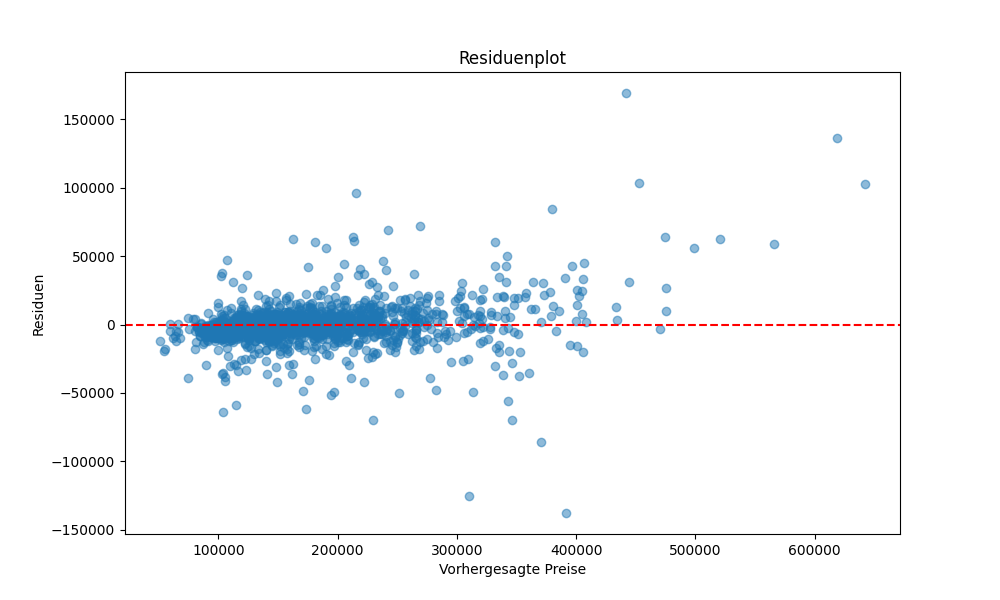
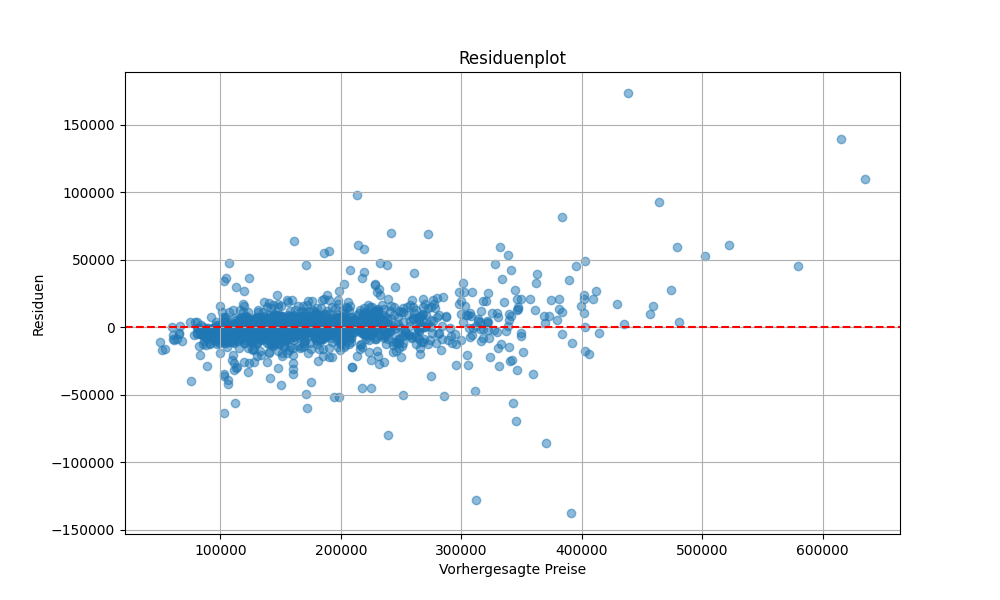
Automatisierung der ML Pipeline

diff --git a/scripts/evaluate_model.py b/scripts/evaluate_model.py
@@ -7,35 +7,48 @@ import logging
 
 logging.basicConfig(level=logging.INFO)
 
-def evaluate_model(data_path, model_path):
+def evaluate_model(data_path, model_path, feature_path, results_dir="results"):
     """
     Bewertet das trainierte Modell und visualisiert die Ergebnisse.
     """
     try:
-        data = pd.read_csv(data_path, compression='zip')
-        X = data.drop(columns=["SalePrice"])
+        # Erstelle das Verzeichnis für Ergebnisse, falls nicht vorhanden
+        os.makedirs(results_dir, exist_ok=True)
+
+        # Lade die CSV-Datei
+        data = pd.read_csv(data_path)
+
+        # Sicherstellen, dass die Features mit dem Training übereinstimmen
+        feature_names = joblib.load(feature_path)
+        if not set(feature_names).issubset(data.columns):
+            raise ValueError("Feature-Namen stimmen nicht mit den Daten überein")
+
+        X = data[feature_names]
         y_true = data["SalePrice"]
 
+        # Lade das Modell und mache Vorhersagen
         model = joblib.load(model_path)
         y_pred = model.predict(X)
 
+        # Berechne die Evaluationsmetriken
         mae = mean_absolute_error(y_true, y_pred)
         mse = mean_squared_error(y_true, y_pred)
         r2 = r2_score(y_true, y_pred)
-        logging.info(f"MAE: {mae}, MSE: {mse}, R²: {r2}")
+        logging.info(f"MAE: {mae:.2f}, MSE: {mse:.2f}, R²: {r2:.2f}")
 
-        results_dir = "results/"
-        os.makedirs(results_dir, exist_ok=True)
-
+        # Echte vs. Vorhergesagte Werte visualisieren
         plt.figure(figsize=(10, 6))
         plt.scatter(y_true, y_pred, alpha=0.5)
-        plt.plot([y_true.min(), y_true.max()], [y_true.min(), y_true.max()], "r--")
+        plt.plot([y_true.min(), y_true.max()], [y_true.min(), y_true.max()], "r--", label="Ideal")
         plt.xlabel("Echte Preise")
         plt.ylabel("Vorhergesagte Preise")
         plt.title("Echte vs. Vorhergesagte Preise")
-        plt.savefig(f"{results_dir}/true_vs_predicted.png")
-        plt.close()
+        plt.legend()
+        plt.grid()
+        plt.savefig(os.path.join(results_dir, "true_vs_predicted.png"))
+        plt.show()
 
+        # Residuenplot erstellen
         residuals = y_true - y_pred
         plt.figure(figsize=(10, 6))
         plt.scatter(y_pred, residuals, alpha=0.5)
@@ -43,11 +56,16 @@ def evaluate_model(data_path, model_path):
         plt.xlabel("Vorhergesagte Preise")
         plt.ylabel("Residuen")
         plt.title("Residuenplot")
-        plt.savefig(f"{results_dir}/residuals.png")
-        plt.close()
+        plt.grid()
+        plt.savefig(os.path.join(results_dir, "residuals.png"))
+        plt.show()
 
     except Exception as e:
         logging.error(f"Fehler bei der Evaluierung: {e}")
 
 if __name__ == "__main__":
-    evaluate_model("data/processed_house_prices.csv.zip", "models/best_house_price_model.pkl")
+    evaluate_model(
+        "data/processed_house_prices.csv",
+        "models/best_house_price_model.pkl",
+        "models/feature_names.pkl"
+    )

diff --git a/scripts/data_processing.py b/scripts/data_processing.py
@@ -43,4 +43,3 @@ def preprocess_data(file_path, output_path):
 
 if __name__ == "__main__":
     preprocess_data("data/train.csv", "data/processed_house_prices.csv")
-
